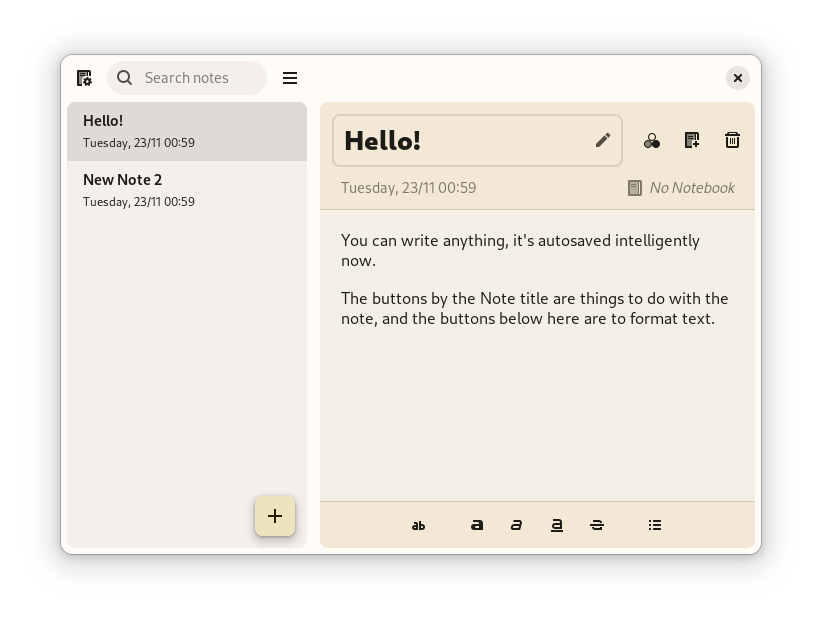
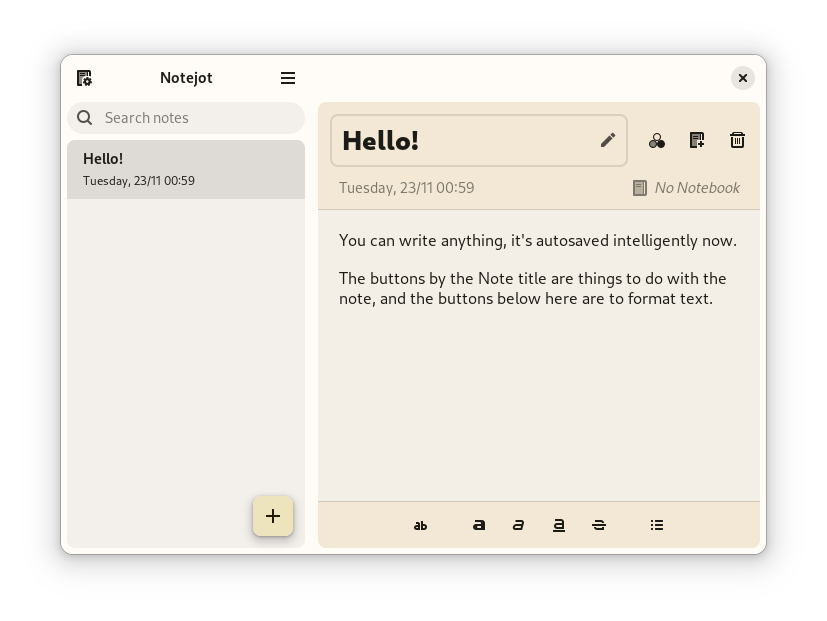
* - upd shot

diff --git a/data/style.css b/data/style.css
@@ -197,7 +197,7 @@
 .notejot-searchbar {
   border-radius: 9rem;
   padding: 0 10px;
-  margin: 6px 0 6px;
+  margin: 0 6px;
   border: none;
   background: @popover_bg_color;
 }
